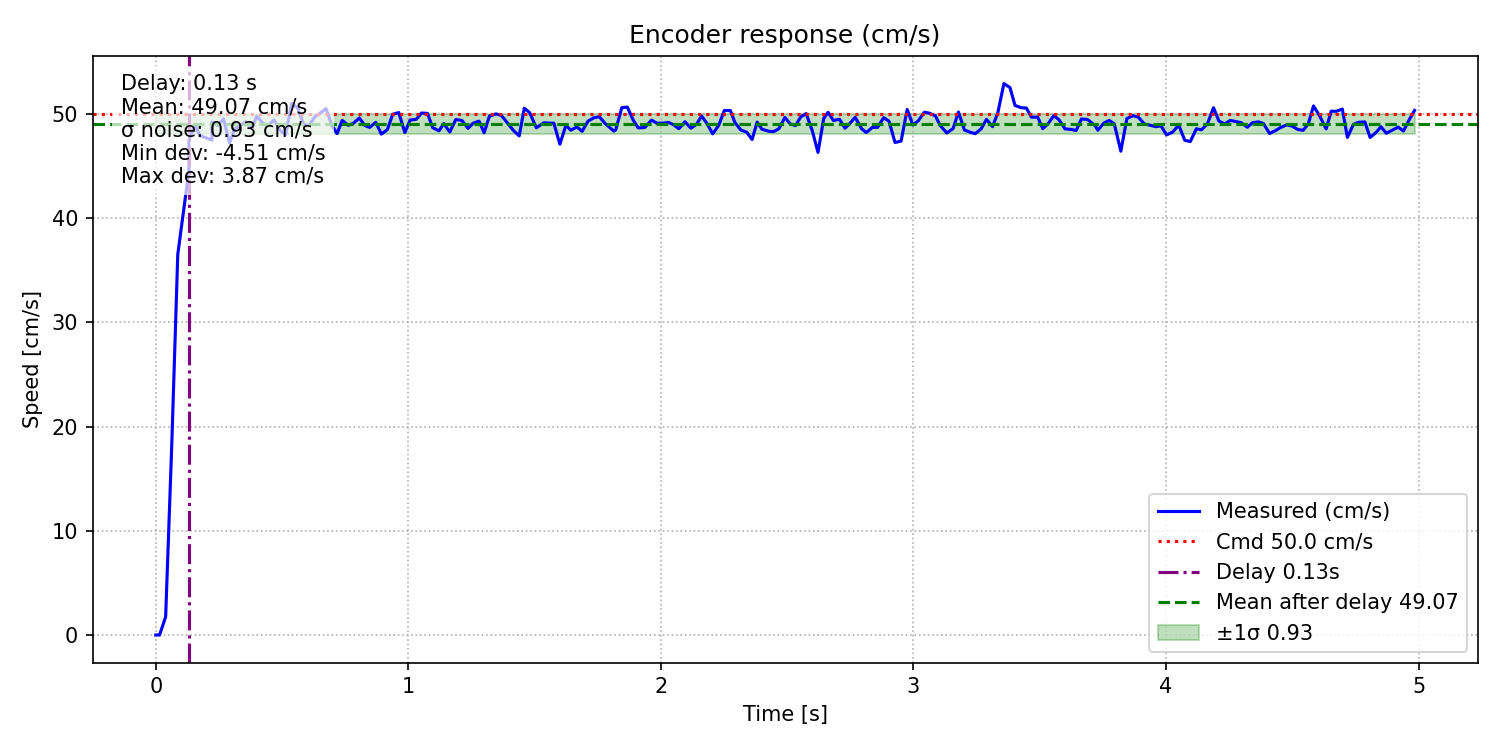
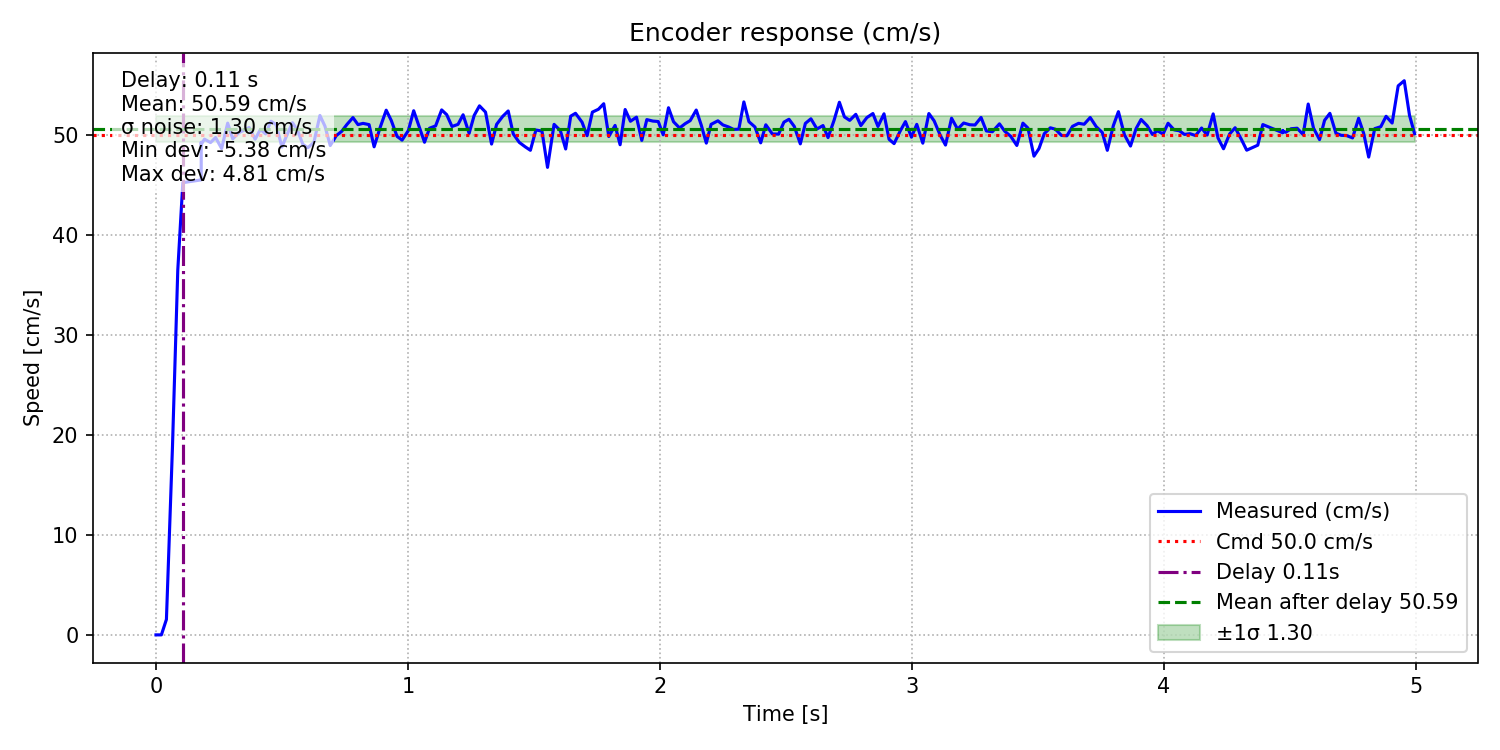
260222

diff --git a/src/control/src/Controller.cpp b/src/control/src/Controller.cpp
@@ -1316,7 +1316,7 @@ void StateMachine::publish_commands() {
     // steer = 0;
     // speed = 0.32;
     
-    // std::cout << "speed: " << speed*100 << ", steer:" << steer << std::endl;
+    std::cout << "speed: " << speed*100 << ", steer:" << steer << std::endl;
 
     utils.publish_cmd_vel(steer, speed);
 }

diff --git a/Embedded_Platform/Embedded_2024/scripts/encoder_test.py b/Embedded_Platform/Embedded_2024/scripts/encoder_test.py
@@ -48,7 +48,6 @@ HOLD_TIME_S       = 5.0
 ENC_PATTERN = re.compile(r"@5:([-0-9.]+);([-0-9.]+);([-0-9.]+);([-0-9.]+);;")
 
 
-
 MOTOR_ID = 13
 
 def build_cmd(speed_cm_s: float, angle_deg: float) -> bytes:

diff --git a/README.md b/README.md
@@ -198,6 +198,9 @@ roscore
 ```bash
 ssh scandy@{ip_address_of_jetson}
 roslaunch control controller.launch camera:=true ip:=192.168.50.216 use_gps:=true real:=true realsense:=true use_traffic_server:=true gps_id:=10
+
+
+roslaunch control controller.launch camera:=true  use_gps:=false real:=true realsense:=true use_traffic_server:=false gps_id:=10 print:=true emergency:=false
 ```
 - replace 192.168.50.216 by ip address of computer on which the gui is run.
 - change gps_id according to the id of the gps module mounted on the car.
